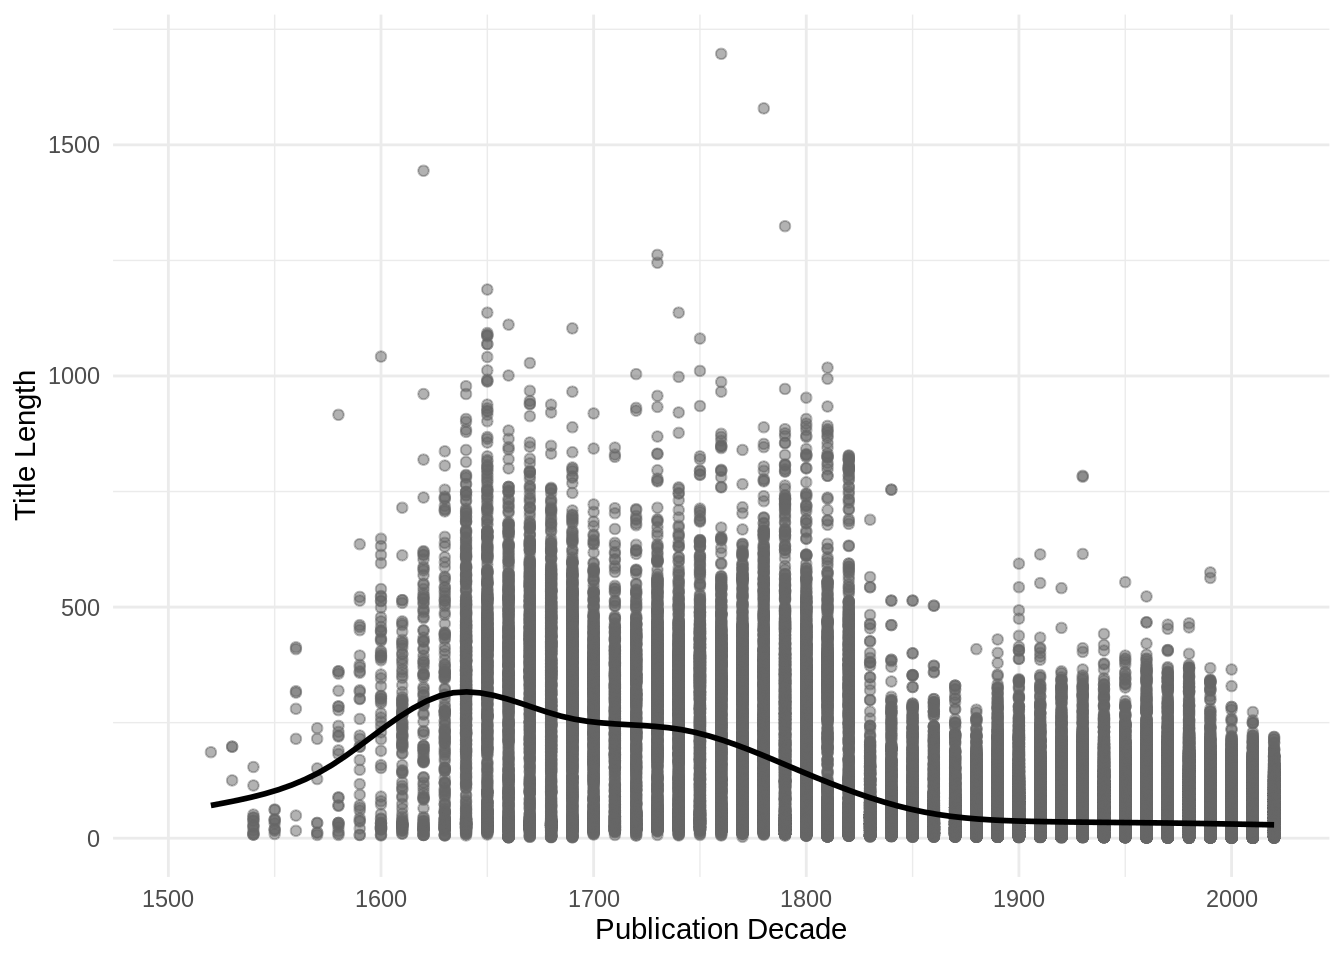
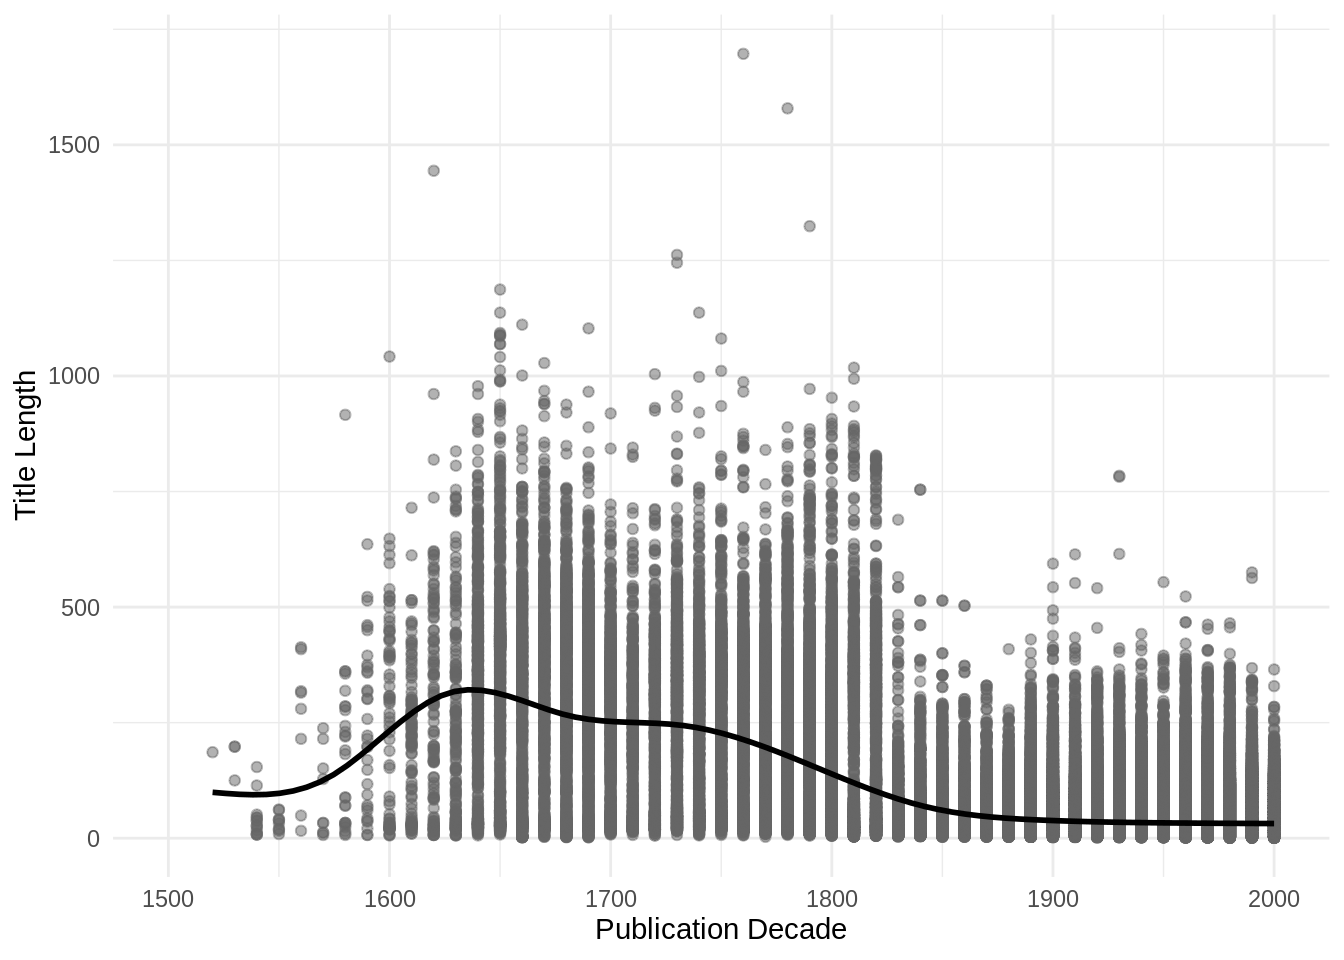
title update 2

diff --git a/inst/examples/_book/title.html b/inst/examples/_book/title.html
@@ -30,7 +30,7 @@ ul.task-list li input[type="checkbox"] {
 <script src="site_libs/quarto-search/fuse.min.js"></script>
 <script src="site_libs/quarto-search/quarto-search.js"></script>
 <meta name="quarto:offset" content="./">
-<link href="./acknowledgments.html" rel="next">
+<link href="./title_remainder.html" rel="next">
 <link href="./publication_time.html" rel="prev">
 <script src="site_libs/quarto-html/quarto.js"></script>
 <script src="site_libs/quarto-html/popper.min.js"></script>
@@ -130,6 +130,12 @@ ul.task-list li input[type="checkbox"] {
  <span class="menu-text"><span class="chapter-number">4</span>&nbsp; <span class="chapter-title">Title</span></span></a>
   </div>
 </li>
+        <li class="sidebar-item">
+  <div class="sidebar-item-container"> 
+  <a href="./title_remainder.html" class="sidebar-item-text sidebar-link">
+ <span class="menu-text"><span class="chapter-number">5</span>&nbsp; <span class="chapter-title">Complete Dataset Overview</span></span></a>
+  </div>
+</li>
         <li class="sidebar-item sidebar-item-section">
       <div class="sidebar-item-container"> 
             <a class="sidebar-item-text sidebar-link text-start" data-bs-toggle="collapse" data-bs-target="#quarto-sidebar-section-1" aria-expanded="true">
@@ -176,6 +182,20 @@ ul.task-list li input[type="checkbox"] {
   <li><a href="#top-20-titles-for-years-1809-1917-language-material-content-type" id="toc-top-20-titles-for-years-1809-1917-language-material-content-type" class="nav-link" data-scroll-target="#top-20-titles-for-years-1809-1917-language-material-content-type"><span class="header-section-number">4.2.2</span> Top-20 titles for years 1809-1917 / “Language material” content type</a></li>
   <li><a href="#title-length-over-time-1809-1917" id="toc-title-length-over-time-1809-1917" class="nav-link" data-scroll-target="#title-length-over-time-1809-1917"><span class="header-section-number">4.2.3</span> Title Length Over Time (1809-1917)</a></li>
   <li><a href="#title-word-count-1809-1917" id="toc-title-word-count-1809-1917" class="nav-link" data-scroll-target="#title-word-count-1809-1917"><span class="header-section-number">4.2.4</span> Title Word Count (1809-1917)</a></li>
+  </ul></li>
+  <li><a href="#complete-dataset-overview-1" id="toc-complete-dataset-overview-1" class="nav-link" data-scroll-target="#complete-dataset-overview-1"><span class="header-section-number">4.3</span> Complete Dataset Overview</a>
+  <ul class="collapse">
+  <li><a href="#top-r-ntop-title_remainders" id="toc-top-r-ntop-title_remainders" class="nav-link" data-scroll-target="#top-r-ntop-title_remainders"><span class="header-section-number">4.3.1</span> Top-<code>r ntop</code> title_remainders</a></li>
+  <li><a href="#top-r-ntop-remainders-of-title-for-language-material-content-type" id="toc-top-r-ntop-remainders-of-title-for-language-material-content-type" class="nav-link" data-scroll-target="#top-r-ntop-remainders-of-title-for-language-material-content-type"><span class="header-section-number">4.3.2</span> Top-<code>r ntop</code> remainders of title for “Language material” content type</a></li>
+  <li><a href="#remainder-of-title-length-over-time-1488-2020" id="toc-remainder-of-title-length-over-time-1488-2020" class="nav-link" data-scroll-target="#remainder-of-title-length-over-time-1488-2020"><span class="header-section-number">4.3.3</span> Remainder of Title Length Over Time (1488-2020)</a></li>
+  <li><a href="#remainder-of-title-word-count-over-time-1488-2020" id="toc-remainder-of-title-word-count-over-time-1488-2020" class="nav-link" data-scroll-target="#remainder-of-title-word-count-over-time-1488-2020"><span class="header-section-number">4.3.4</span> Remainder of Title Word Count Over Time (1488-2020)</a></li>
+  </ul></li>
+  <li><a href="#subset-analysis-1809-1917-1" id="toc-subset-analysis-1809-1917-1" class="nav-link" data-scroll-target="#subset-analysis-1809-1917-1"><span class="header-section-number">4.4</span> Subset Analysis: 1809-1917</a>
+  <ul class="collapse">
+  <li><a href="#top-r-ntop-title_remainders-for-years-1809-1917" id="toc-top-r-ntop-title_remainders-for-years-1809-1917" class="nav-link" data-scroll-target="#top-r-ntop-title_remainders-for-years-1809-1917"><span class="header-section-number">4.4.1</span> Top-<code>r ntop</code> title_remainders for years 1809-1917</a></li>
+  <li><a href="#top-r-ntop-title_remainders-for-years-1809-1917-period-language-material-content-type" id="toc-top-r-ntop-title_remainders-for-years-1809-1917-period-language-material-content-type" class="nav-link" data-scroll-target="#top-r-ntop-title_remainders-for-years-1809-1917-period-language-material-content-type"><span class="header-section-number">4.4.2</span> Top-<code>r ntop</code> title_remainders for years 1809-1917 period / “Language material” content type</a></li>
+  <li><a href="#title_remainder-length-over-time-1809-1917" id="toc-title_remainder-length-over-time-1809-1917" class="nav-link" data-scroll-target="#title_remainder-length-over-time-1809-1917"><span class="header-section-number">4.4.3</span> title_remainder Length Over Time (1809-1917)</a></li>
+  <li><a href="#title_remainder-word-count-1809-1917" id="toc-title_remainder-word-count-1809-1917" class="nav-link" data-scroll-target="#title_remainder-word-count-1809-1917"><span class="header-section-number">4.4.4</span> title_remainder Word Count (1809-1917)</a></li>
   </ul></li>
   </ul>
 <div class="toc-actions"><div><i class="bi bi-github"></i></div><div class="action-links"><p><a href="https://github.com/fennicahub/fennica/issues/new" class="toc-action">Report an issue</a></p></div></div></nav>
@@ -267,31 +287,6 @@ ul.task-list li input[type="checkbox"] {
 <tr class="even">
 <td style="text-align: left;">Topografinen kartta 1:50000</td>
 <td style="text-align: left;">536</td>
-<td style="text-align: left;">0</td>
-</tr>
-<tr class="odd">
-<td style="text-align: left;">Maaperäkartta 1:20000</td>
-<td style="text-align: left;">507</td>
-<td style="text-align: left;">0</td>
-</tr>
-<tr class="even">
-<td style="text-align: left;">Kootut teokset</td>
-<td style="text-align: left;">476</td>
-<td style="text-align: left;">0</td>
-</tr>
-<tr class="odd">
-<td style="text-align: left;">Topografinen kartta 1:100000</td>
-<td style="text-align: left;">467</td>
-<td style="text-align: left;">0</td>
-</tr>
-<tr class="even">
-<td style="text-align: left;">Suomi</td>
-<td style="text-align: left;">455</td>
-<td style="text-align: left;">0</td>
-</tr>
-<tr class="odd">
-<td style="text-align: left;">Suomen taloudellinen kartta 1:100000</td>
-<td style="text-align: left;">430</td>
 <td style="text-align: left;">0</td>
 </tr>
 </tbody>
@@ -551,6 +546,186 @@ ul.task-list li input[type="checkbox"] {
 </div>
 
 
+<pre class="{r}"><code>#| label = "source-index",
+#| include = FALSE
+source("init.R")
+source("title_remainder.R")</code></pre>
+<p>MARC: <a href="https://www.loc.gov/marc/bibliographic/bd245.html">245b</a></p>
+</section>
+</section>
+<section id="complete-dataset-overview-1" class="level2" data-number="4.3">
+<h2 data-number="4.3" class="anchored" data-anchor-id="complete-dataset-overview-1"><span class="header-section-number">4.3</span> Complete Dataset Overview</h2>
+<p>Original documents with title_remainders: <code>r sum(!is.na(df[[field]]))</code> / <code>r nrow(df)</code> (<code>r round(100*mean(!is.na(df[[field]])), 1)</code>%)</p>
+<p>Original documents with missing (NA) title_remainders <code>r sum(is.na(df[[field]]))</code> / <code>r nrow(df)</code> documents (<code>r round(100*mean(is.na(df[[field]])), 1)</code>%)</p>
+<p><a href="dataTable/data_table.html?path=https://a3s.fi/swift/v1/AUTH_3c0ccb602fa24298a6fe3ae224ca022f/fennica-container/output.tables/title_remainder_discarded.csv">Unique discarded entries in original data</a>: <code>r as.vector(countLines(file_discarded) - 1)</code></p>
+<p><a href="https://a3s.fi/swift/v1/AUTH_3c0ccb602fa24298a6fe3ae224ca022f/fennica-container/output.tables/title_remainder.csv">Download title_remainder field harmonized dataset</a></p>
+<section id="top-r-ntop-title_remainders" class="level3" data-number="4.3.1">
+<h3 data-number="4.3.1" class="anchored" data-anchor-id="top-r-ntop-title_remainders"><span class="header-section-number">4.3.1</span> Top-<code>r ntop</code> title_remainders</h3>
+<pre class="{r}"><code>#| label = "summary_title_remainder_table",
+#| echo = FALSE,
+#| results = "asis"
+x &lt;- top(df, "title_remainder")
+tab &lt;- cbind(names(x), unname(x), round(100 * unname(x/nrow(df)), 1))
+colnames(tab) &lt;- c("Remainder of title", "Entries (n)", "Fraction (%)")
+kable(head(tab, 10))</code></pre>
+</section>
+<section id="top-r-ntop-remainders-of-title-for-language-material-content-type" class="level3" data-number="4.3.2">
+<h3 data-number="4.3.2" class="anchored" data-anchor-id="top-r-ntop-remainders-of-title-for-language-material-content-type"><span class="header-section-number">4.3.2</span> Top-<code>r ntop</code> remainders of title for “Language material” content type</h3>
+<p>In the Fennica dataset, language material makes up the majority of the content, comprising 91.6% of the entire dataset. This includes written texts, documents, books, articles, and any other content primarily composed of language. The remaining 8.4% consists of non-language material, such as maps, music, computer files, and other types of content that do not primarily rely on language. For a more detailed breakdown of the different types of content within the dataset.</p>
+<pre class="{r}"><code>#| label = "summary_title_remainder_table4",
+#| echo = FALSE,
+#| results = "asis"
+
+#pick melindas for language material content types
+df_lang_material &lt;- df.orig %&gt;%
+  filter(type_of_record == "Language material") %&gt;%
+  select(melinda_id)
+
+#filter language material melindas 
+df_language_mat &lt;- df %&gt;%
+  filter(melinda_id %in% df_lang_material$melinda_id)
+
+x &lt;- top(df_language_mat, "title_remainder")
+tab &lt;- cbind(names(x), unname(x), round(100 * unname(x/nrow(df)), 1))
+colnames(tab) &lt;- c("Remainder of Title", "Entries (n)", "Fraction (%)")
+kable(head(tab, 10))</code></pre>
+</section>
+<section id="remainder-of-title-length-over-time-1488-2020" class="level3" data-number="4.3.3">
+<h3 data-number="4.3.3" class="anchored" data-anchor-id="remainder-of-title-length-over-time-1488-2020"><span class="header-section-number">4.3.3</span> Remainder of Title Length Over Time (1488-2020)</h3>
+<p>This plot visualizes the variation in title_remainder lengths across publication decades from 1488 to 2020. The title_remainder lengths range from <code>r min(df$title_remainder_length, na.rm = TRUE)</code> to<code>r max(df$title_remainder_length, na.rm = TRUE)</code> , highlighting how the length of title_remainders has evolved over time.N = <code>r nrow(df)</code>.</p>
+<pre class="{r}"><code>#| label = "summary_title_remainder_length_pic",
+#| echo = FALSE,
+#| warning = FALSE,
+df$publication_decade &lt;- df.harmonized$publication_decade
+
+df2 &lt;- df %&gt;% 
+  group_by(publication_decade) %&gt;% 
+  filter(publication_decade &lt;= 2030) 
+df2 &lt;- df2 %&gt;% 
+  filter(!is.na(publication_decade) &amp; !is.na(title_remainder_length))  # Remove NA values
+
+ggplot(df2, aes(x = publication_decade, y = title_remainder_length)) +
+  geom_point(alpha = 0.5, color = "#666666") +  # Scatter plot for individual points
+  geom_smooth(method = "gam", formula = y ~ s(x, bs = "cs"), color = "black", se = FALSE) + 
+  scale_x_continuous(
+    limits = c(1500, 2000),  
+    breaks = seq(1500, 2000, by = 100),  
+    labels = as.character(seq(1500, 2000, by = 100))
+  ) +
+  labs(x = "Publication Decade", y = "Remainder of Title Length") +
+  theme_minimal()</code></pre>
+</section>
+<section id="remainder-of-title-word-count-over-time-1488-2020" class="level3" data-number="4.3.4">
+<h3 data-number="4.3.4" class="anchored" data-anchor-id="remainder-of-title-word-count-over-time-1488-2020"><span class="header-section-number">4.3.4</span> Remainder of Title Word Count Over Time (1488-2020)</h3>
+<p>This plot visualizes the variation in title_remainder word counts across publication decades from 1488 to 2020. The title_remainder lengths range from <code>r min(df$title_remainder_word_count, na.rm = TRUE)</code> to<code>r max(df$title_remainder_word_count, na.rm = TRUE)</code> , highlighting how the length of title_remainders has evolved over time.N = <code>r nrow(df)</code>.</p>
+<pre class="{r}"><code>#| label = "summary_title_remainder_word_count_pic",
+#| echo = FALSE,
+#| warning = FALSE,
+df$publication_decade &lt;- df.harmonized$publication_decade
+
+df2 &lt;- df %&gt;% 
+  group_by(publication_decade) %&gt;% 
+  filter(publication_decade &lt;= 2030) 
+df2 &lt;- df2 %&gt;% 
+  filter(!is.na(publication_decade) &amp; !is.na(title_remainder_word_count))  # Remove NA values
+
+ggplot(df2, aes(x = publication_decade, y = title_remainder_word_count)) +
+  geom_point(alpha = 0.5, color = "#666666") +  # Scatter plot for individual points
+  geom_smooth(method = "gam", formula = y ~ s(x, bs = "cs"), color = "black", se = FALSE) +  
+  scale_x_continuous(
+    limits = c(1500, 2000),  
+    breaks = seq(1500, 2000, by = 100),  
+    labels = as.character(seq(1500, 2000, by = 100))
+  ) +
+  labs(x = "Publication Decade", y = "Remainder of Title Word Count") +
+  theme_minimal()</code></pre>
+</section>
+</section>
+<section id="subset-analysis-1809-1917-1" class="level2" data-number="4.4">
+<h2 data-number="4.4" class="anchored" data-anchor-id="subset-analysis-1809-1917-1"><span class="header-section-number">4.4</span> Subset Analysis: 1809-1917</h2>
+<p><a href="dataTable/data_table.html?path=https://a3s.fi/swift/v1/AUTH_3c0ccb602fa24298a6fe3ae224ca022f/fennica-container/output.tables/title_remainder_remainder_accepted_19.csv">Unique accepted entries (1809-1917)</a>: <code>r length(unique(df_19[[field]]))</code></p>
+<p>Original documents with non-NA title_remainders: <code>r sum(!is.na(df_19[[field]]))</code> / <code>r nrow(df_19)</code> (<code>r round(100*mean(!is.na(df_19[[field]])), 1)</code>%)</p>
+<p>Original documents with missing (NA) title_remainders <code>r sum(is.na(df_19[[field]]))</code> / <code>r nrow(df_19)</code> documents (<code>r round(100*mean(is.na(df_19[[field]])), 1)</code>%)</p>
+<p><a href="https://a3s.fi/swift/v1/AUTH_3c0ccb602fa24298a6fe3ae224ca022f/fennica-container/output.tables/title_remainder_19.csv">Download title_remainder field harmonized dataset(1809-1917)</a></p>
+<section id="top-r-ntop-title_remainders-for-years-1809-1917" class="level3" data-number="4.4.1">
+<h3 data-number="4.4.1" class="anchored" data-anchor-id="top-r-ntop-title_remainders-for-years-1809-1917"><span class="header-section-number">4.4.1</span> Top-<code>r ntop</code> title_remainders for years 1809-1917</h3>
+<pre class="{r}"><code>#| label = "summary_title_remainder_remainder_table2",
+#| echo = FALSE,
+#| results = "asis"
+x &lt;- top(df_19, "title_remainder")
+tab &lt;- cbind(names(x), unname(x), round(100 * unname(x/nrow(df_19)), 1))
+colnames(tab) &lt;- c("Remainder of title", "Entries (n)", "Fraction (%)")
+kable(head(tab, 10))</code></pre>
+</section>
+<section id="top-r-ntop-title_remainders-for-years-1809-1917-period-language-material-content-type" class="level3" data-number="4.4.2">
+<h3 data-number="4.4.2" class="anchored" data-anchor-id="top-r-ntop-title_remainders-for-years-1809-1917-period-language-material-content-type"><span class="header-section-number">4.4.2</span> Top-<code>r ntop</code> title_remainders for years 1809-1917 period / “Language material” content type</h3>
+<pre class="{r}"><code>#| label = "summary_title_remainder_remainder_table3",
+#| echo = FALSE,
+#| results = "asis"
+
+#pick melindas for language material content types
+df_lang_material &lt;- df.orig %&gt;%
+  filter(type_of_record == "Language material") %&gt;%
+  select(melinda_id)
+
+#filter language material melindas for 1809-1917 years 
+df_19_language_mat &lt;- df_19 %&gt;%
+  filter(melinda_id %in% df_lang_material$melinda_id)
+
+x &lt;- top(df_19_language_mat, "title_remainder")
+tab &lt;- cbind(names(x), unname(x), round(100 * unname(x/nrow(df_19)), 1))
+colnames(tab) &lt;- c("Remainder of title", "Entries (n)", "Fraction (%)")
+kable(head(tab, 10))</code></pre>
+</section>
+<section id="title_remainder-length-over-time-1809-1917" class="level3" data-number="4.4.3">
+<h3 data-number="4.4.3" class="anchored" data-anchor-id="title_remainder-length-over-time-1809-1917"><span class="header-section-number">4.4.3</span> title_remainder Length Over Time (1809-1917)</h3>
+<p>This plot visualizes the variation in title_remainder lengths across publication years from 1809 to 1917. The title_remainder lengths range from <code>r min(df_19$title_remainder_length, na.rm = TRUE)</code> to<code>r max(df_19$title_remainder_length, na.rm = TRUE)</code>. N = <code>r nrow(df_19)</code>.</p>
+<pre class="{r}"><code>#| label = "summary_title_remainder_length_pic1",
+#| echo = FALSE,
+#| warning = FALSE,
+df_19$publication_year &lt;- df_pubtime19$publication_year
+
+df2 &lt;- df_19 %&gt;% 
+  group_by(publication_year) %&gt;% 
+  filter(publication_year &lt;= 1920) 
+df2 &lt;- df2 %&gt;% 
+  filter(!is.na(publication_year) &amp; !is.na(title_remainder_length))  # Remove NA values
+
+ggplot(df2, aes(x = publication_year, y = title_remainder_length)) +
+  geom_point(alpha = 0.5, color = "#555") +  # Scatter plot for individual points
+  geom_smooth(method = "gam", formula = y ~ s(x, bs = "cs"), color = "black", se = FALSE) + 
+  scale_x_continuous(
+    limits = c(1810, 1920),  
+    breaks = seq(1810, 1920, by = 10),  
+    labels = as.character(seq(1810, 1920, by = 10))
+  ) +
+  labs(x = "Publication Year", y = "Remainder of Title Length") +
+  theme_minimal()</code></pre>
+</section>
+<section id="title_remainder-word-count-1809-1917" class="level3" data-number="4.4.4">
+<h3 data-number="4.4.4" class="anchored" data-anchor-id="title_remainder-word-count-1809-1917"><span class="header-section-number">4.4.4</span> title_remainder Word Count (1809-1917)</h3>
+<p>This plot visualizes the variation in title_remainder lengths across publication years from 1809 to 1917. The title_remainder lengths range from <code>r min(df_19$title_remainder_word_count, na.rm = TRUE)</code> to<code>r max(df_19$title_remainder_word_count, na.rm = TRUE)</code>. N = <code>r nrow(df_19)</code>.</p>
+<pre class="{r}"><code>#| label = "summary_title_remainder_word_count_pic1",
+#| echo = FALSE,
+#| warning = FALSE,
+df_19$publication_year &lt;- df_pubtime19$publication_year
+
+df2 &lt;- df_19 %&gt;% 
+  group_by(publication_year) %&gt;% 
+  filter(publication_year &lt;= 1920) 
+df2 &lt;- df2 %&gt;% 
+  filter(!is.na(publication_year) &amp; !is.na(title_remainder_word_count))  # Remove NA values
+
+ggplot(df2, aes(x = publication_year, y = title_remainder_word_count)) +
+  geom_point(alpha = 0.5, color = "#555") +  # Scatter plot for individual points
+  geom_smooth(method = "gam", formula = y ~ s(x, bs = "cs"), color = "black", se = FALSE) + 
+  scale_x_continuous(
+    limits = c(1810, 1920),  
+    breaks = seq(1810, 1920, by = 10),  
+    labels = as.character(seq(1810, 1920, by = 10))
+  ) +
+  labs(x = "Publication Year", y = "Remainder of Title Word Count") +
+  theme_minimal()</code></pre>
 </section>
 </section>
 
@@ -910,8 +1085,8 @@ window.document.addEventListener("DOMContentLoaded", function (event) {
       </a>          
   </div>
   <div class="nav-page nav-page-next">
-      <a href="./acknowledgments.html" class="pagination-link">
-        <span class="nav-page-text">Acknowledgements</span> <i class="bi bi-arrow-right-short"></i>
+      <a href="./title_remainder.html" class="pagination-link">
+        <span class="nav-page-text"><span class="chapter-number">5</span>&nbsp; <span class="chapter-title">Complete Dataset Overview</span></span> <i class="bi bi-arrow-right-short"></i>
       </a>
   </div>
 </nav>
